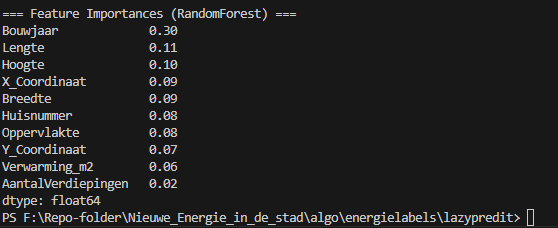
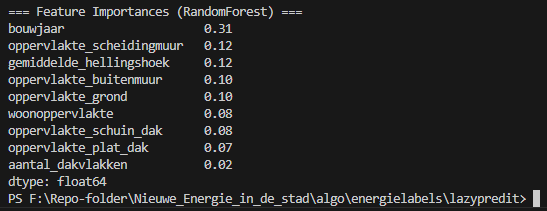
predit aangepast
huisnummers uit gefilterd. is niet relevant!

diff --git a/algo/energielabels/lazypredit/lazypredit.py b/algo/energielabels/lazypredit/lazypredit.py
@@ -15,6 +15,12 @@ df = df.dropna(subset=[target_column])
 
 # === Alleen numerieke features gebruiken ===
 X = df.select_dtypes(include=["number"]).copy()
+
+# Kolommen uitsluiten die niet relevant zijn
+kolommen_weg = ["huisnummer"]
+X = X.drop(columns=[c for c in kolommen_weg if c in X.columns], errors="ignore")
+
+# Targetvariabele
 y = df[target_column]
 
 if X.empty:
